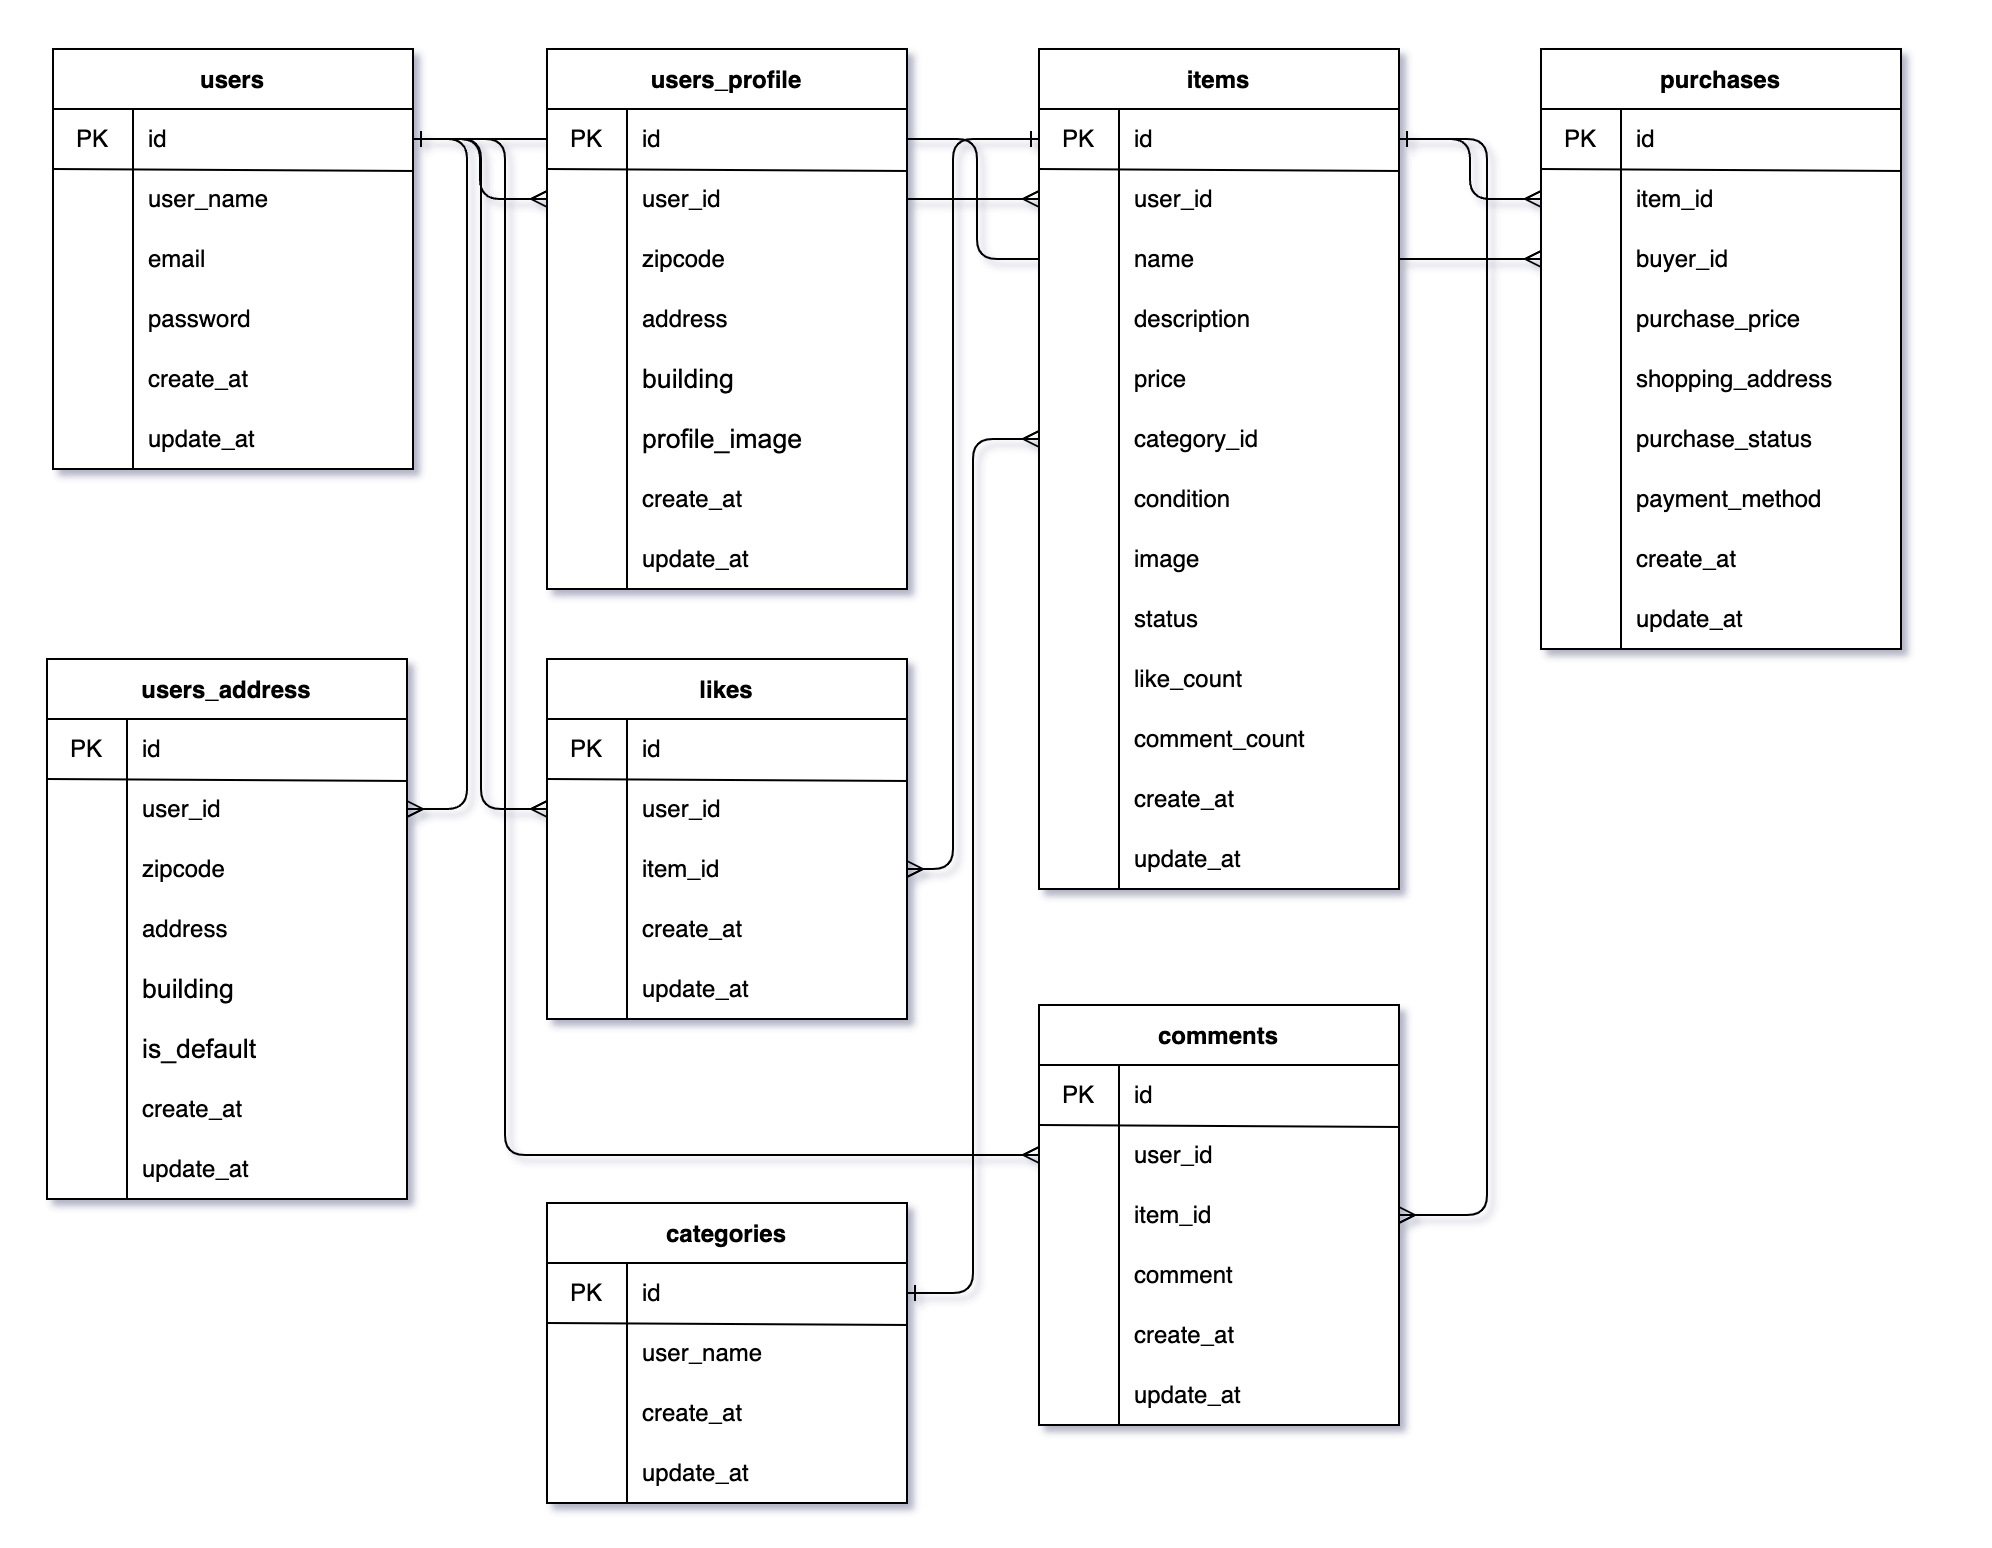
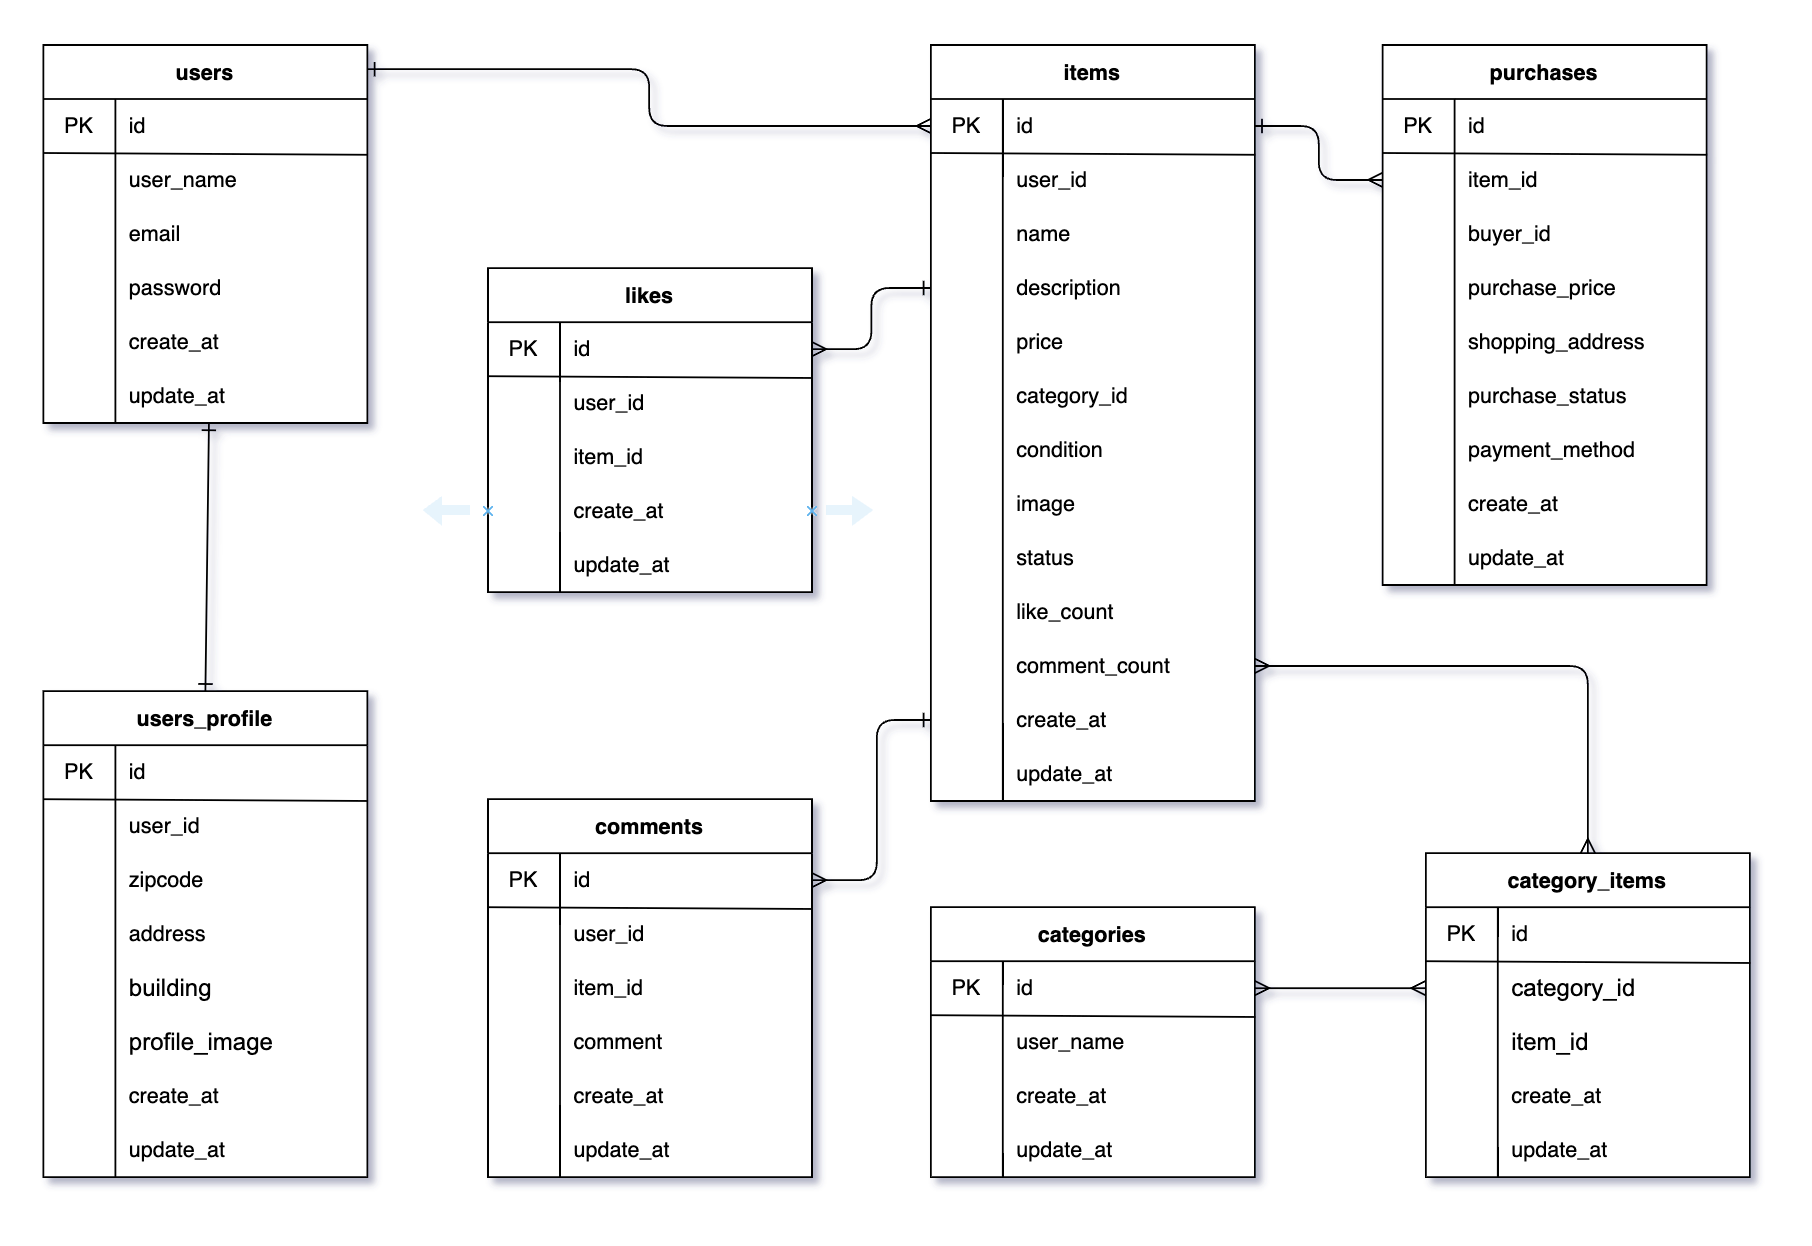
バリデーションの修正、ER図の修正など

diff --git a/src/public/css/purchase.css b/src/public/css/purchase.css
@@ -49,7 +49,7 @@
 
 .purchase-payment select {
     width: 50%;
-    margin: 20px 40px 40px 40px;
+    margin: 20px 40px 20px 40px;
     padding: 8px;
     border-radius: 5px;
 }
@@ -95,4 +95,11 @@
 
 .btn-purchase:hover {
     background-color: #ff4500;
+}
+
+.error {
+    color: #ff0000;
+    font-size: 14px;
+    margin-left: 50px;
+    margin-bottom: 30px
 }

diff --git a/src/public/css/mypage/edit.css b/src/public/css/mypage/edit.css
@@ -81,6 +81,13 @@ input[type="file"] {
     background-color: #e55342;
 }
 
+.error {
+    color: #ff0000;
+    font-size: 14px;
+    margin-top: 5px;
+    width: 250px;
+}
+
 /* レスポンシブ対応 */
 @media (max-width: 768px) {
     .edit-profile__container {

diff --git a/src/app/Http/Requests/LoginRequest.php b/src/app/Http/Requests/LoginRequest.php
@@ -3,6 +3,8 @@
 namespace App\Http\Requests;
 
 use Illuminate\Foundation\Http\FormRequest;
+use Illuminate\Support\Facades\Hash;
+use App\Models\User;
 
 class LoginRequest extends FormRequest
 {
@@ -14,8 +16,27 @@ class LoginRequest extends FormRequest
     public function rules()
     {
         return [
-            'email' => 'required|email',
-            'password' => 'required|string|min:6',
+            'email' => [
+                'required',
+                'email',
+                function ($attribute, $value, $fail) {
+                    if (!User::where('email', $value)->exists()) {
+                        $fail('このメールアドレスは登録されていません。');
+                    }
+                },
+            ],
+            'password' => [
+                'required',
+                'string',
+                'min:8',
+                function ($attribute, $value, $fail) {
+                    $user = User::where('email', $this->email)->first();
+
+                    if ($user && !Hash::check($value, $user->password)) {
+                        $fail('パスワードが正しくありません。');
+                    }
+                },
+            ],
         ];
     }
 
@@ -23,7 +44,9 @@ class LoginRequest extends FormRequest
     {
         return [
             'email.required' => 'メールアドレスを入力してください。',
+            'email.email' => '有効なメールアドレスを入力してください。',
             'password.required' => 'パスワードを入力してください。',
+            'password.min' => 'パスワードは8文字以上で入力してください。',
         ];
     }
 }

diff --git a/src/resources/views/purchase.blade.php b/src/resources/views/purchase.blade.php
@@ -27,17 +27,27 @@
                     <option value="コンビニ払い" {{ request('payment_method') == 'コンビニ払い' ? 'selected' : '' }}>コンビニ払い</option>
                     <option value="カード払い" {{ request('payment_method') == 'カード払い' ? 'selected' : '' }}>カード払い</option>
                 </select>
+                @error('payment_method')
+                <p class="error">{{ $message }}</p>
+                @enderror
             </div>
         </div>
         @csrf
         <div class="purchase-form">
             <div class="purchase-address">
                 <h3>配送先</h3>
+                @if ($profile)
                 <p>〒 {{ $profile->zipcode }}</p>
                 <p>{{ $profile->address }}</p>
                 <p>{{ $profile->building }}</p>
+                @else
+                <p>配送先が設定されていません。</p>
+                @endif
                 <a href="{{ route('purchase.address.edit', ['item_id' => $item->id]) }}">変更する</a>
             </div>
+            @error('address_id')
+            <p class="error">{{ $message }}</p>
+            @enderror
         </div>
     </form>
 
@@ -45,6 +55,7 @@
     <form action="{{ route('purchase.complete', ['item_id' => $item->id]) }}" method="POST">
         @csrf
         <input type="hidden" name="payment_method" value="{{ request('payment_method') }}">
+        <input type="hidden" name="address_id" value="{{ $profile->id ?? '' }}">
         <div class="purchase-summary">
             <div class="summary-box">
                 <div class="summary-item">

diff --git a/src/database/migrations/2025_01_03_230516_create_category_items_table.php b/src/database/migrations/2025_01_03_230516_create_category_items_table.php
@@ -4,11 +4,11 @@ use Illuminate\Database\Migrations\Migration;
 use Illuminate\Database\Schema\Blueprint;
 use Illuminate\Support\Facades\Schema;
 
-class CreateCategoryItemTable extends Migration
+class CreateCategoryItemsTable extends Migration
 {
     public function up()
     {
-        Schema::create('category_item', function (Blueprint $table) {
+        Schema::create('category_items', function (Blueprint $table) {
             $table->id();
             $table->foreignId('category_id')->constrained()->onDelete('cascade');
             $table->foreignId('item_id')->constrained()->onDelete('cascade');
@@ -17,6 +17,11 @@ class CreateCategoryItemTable extends Migration
 
     public function down()
     {
-        Schema::dropIfExists('category_item');
+        Schema::table('category_item', function (Blueprint $table) {
+            $table->dropForeign(['category_id']);
+            $table->dropForeign(['item_id']);
+        });
+
+        Schema::dropIfExists('category_items');
     }
 }

diff --git a/src/app/Http/Requests/RegisterRequest.php b/src/app/Http/Requests/RegisterRequest.php
@@ -17,7 +17,7 @@ class RegisterRequest extends FormRequest
             'username' => 'required',
             'email' => 'required|email',
             'password' => 'required|string|min:8',
-            'password_confirmation' => 'required|string|same:password',
+            'password_confirmation' => 'required|string|min:8|same:password',
         ];
     }
 
@@ -30,6 +30,7 @@ class RegisterRequest extends FormRequest
             'password.required' => 'パスワードを入力してください。',
             'password.min' => 'パスワードは8文字以上で入力してください。',
             'password_confirmation.required' => '確認用パスワードを入力してください。',
+            'password_confirmation.min' => '確認パスワードは8文字以上で入力してください。',
             'password_confirmation.same' => 'パスワードが一致しません。',
         ];
     }

diff --git a/src/app/Http/Requests/PurchaseRequest.php b/src/app/Http/Requests/PurchaseRequest.php
@@ -1,0 +1,30 @@
+<?php
+
+namespace App\Http\Requests;
+
+use Illuminate\Foundation\Http\FormRequest;
+
+class PurchaseRequest extends FormRequest
+{
+    public function authorize()
+    {
+        return true;
+    }
+
+    public function rules()
+    {
+        return [
+            'payment_method' => 'required|string|in:コンビニ払い,カード払い',
+            'address_id' => 'required|exists:user_profiles,id',
+        ];
+    }
+
+    public function messages()
+    {
+        return [
+            'payment_method.required' => '支払い方法を選択してください',
+            'payment_method.in' => '支払い方法を選択してください',
+            'address_id.required' => '配送先を選択してください',
+        ];
+    }
+}

diff --git a/src/app/Http/Controllers/ItemController.php b/src/app/Http/Controllers/ItemController.php
@@ -25,6 +25,7 @@ class ItemController extends Controller
             } elseif ($tab === 'mylist') {
                 $likedItemIds = $user->likes()->pluck('item_id');
                 $items = Item::with('categories')
+                    ->where('user_id', '!=', $user->id)
                     ->whereIn('id', $likedItemIds)
                     ->paginate(8)
                     ->withQueryString();

diff --git a/src/database/migrations/2024_12_05_220540_create_items_table.php b/src/database/migrations/2024_12_05_220540_create_items_table.php
@@ -28,7 +28,9 @@ class CreateItemsTable extends Migration
     public function down()
     {
         Schema::table('items', function (Blueprint $table) {
-            $table->dropForeign('items_user_id_foreign');
+            if (Schema::hasColumn('items', 'user_id')) {
+                $table->dropForeign(['user_id']);
+            }
         });
         Schema::dropIfExists('items');
     }

diff --git a/src/database/migrations/2024_12_25_081257_create_comments_table.php b/src/database/migrations/2024_12_25_081257_create_comments_table.php
@@ -10,8 +10,8 @@ class CreateCommentsTable extends Migration
     {
         Schema::create('comments', function (Blueprint $table) {
             $table->id();
-            $table->unsignedBigInteger('item_id');
             $table->unsignedBigInteger('user_id');
+            $table->unsignedBigInteger('item_id');
             $table->text('content');
             $table->timestamps();
 

diff --git a/src/app/Models/Item.php b/src/app/Models/Item.php
@@ -38,7 +38,7 @@ class Item extends Model
 
     public function categories()
     {
-        return $this->belongsToMany(Category::class, 'category_item');
+        return $this->belongsToMany(Category::class, 'category_items');
     }
 
     public function purchases()
